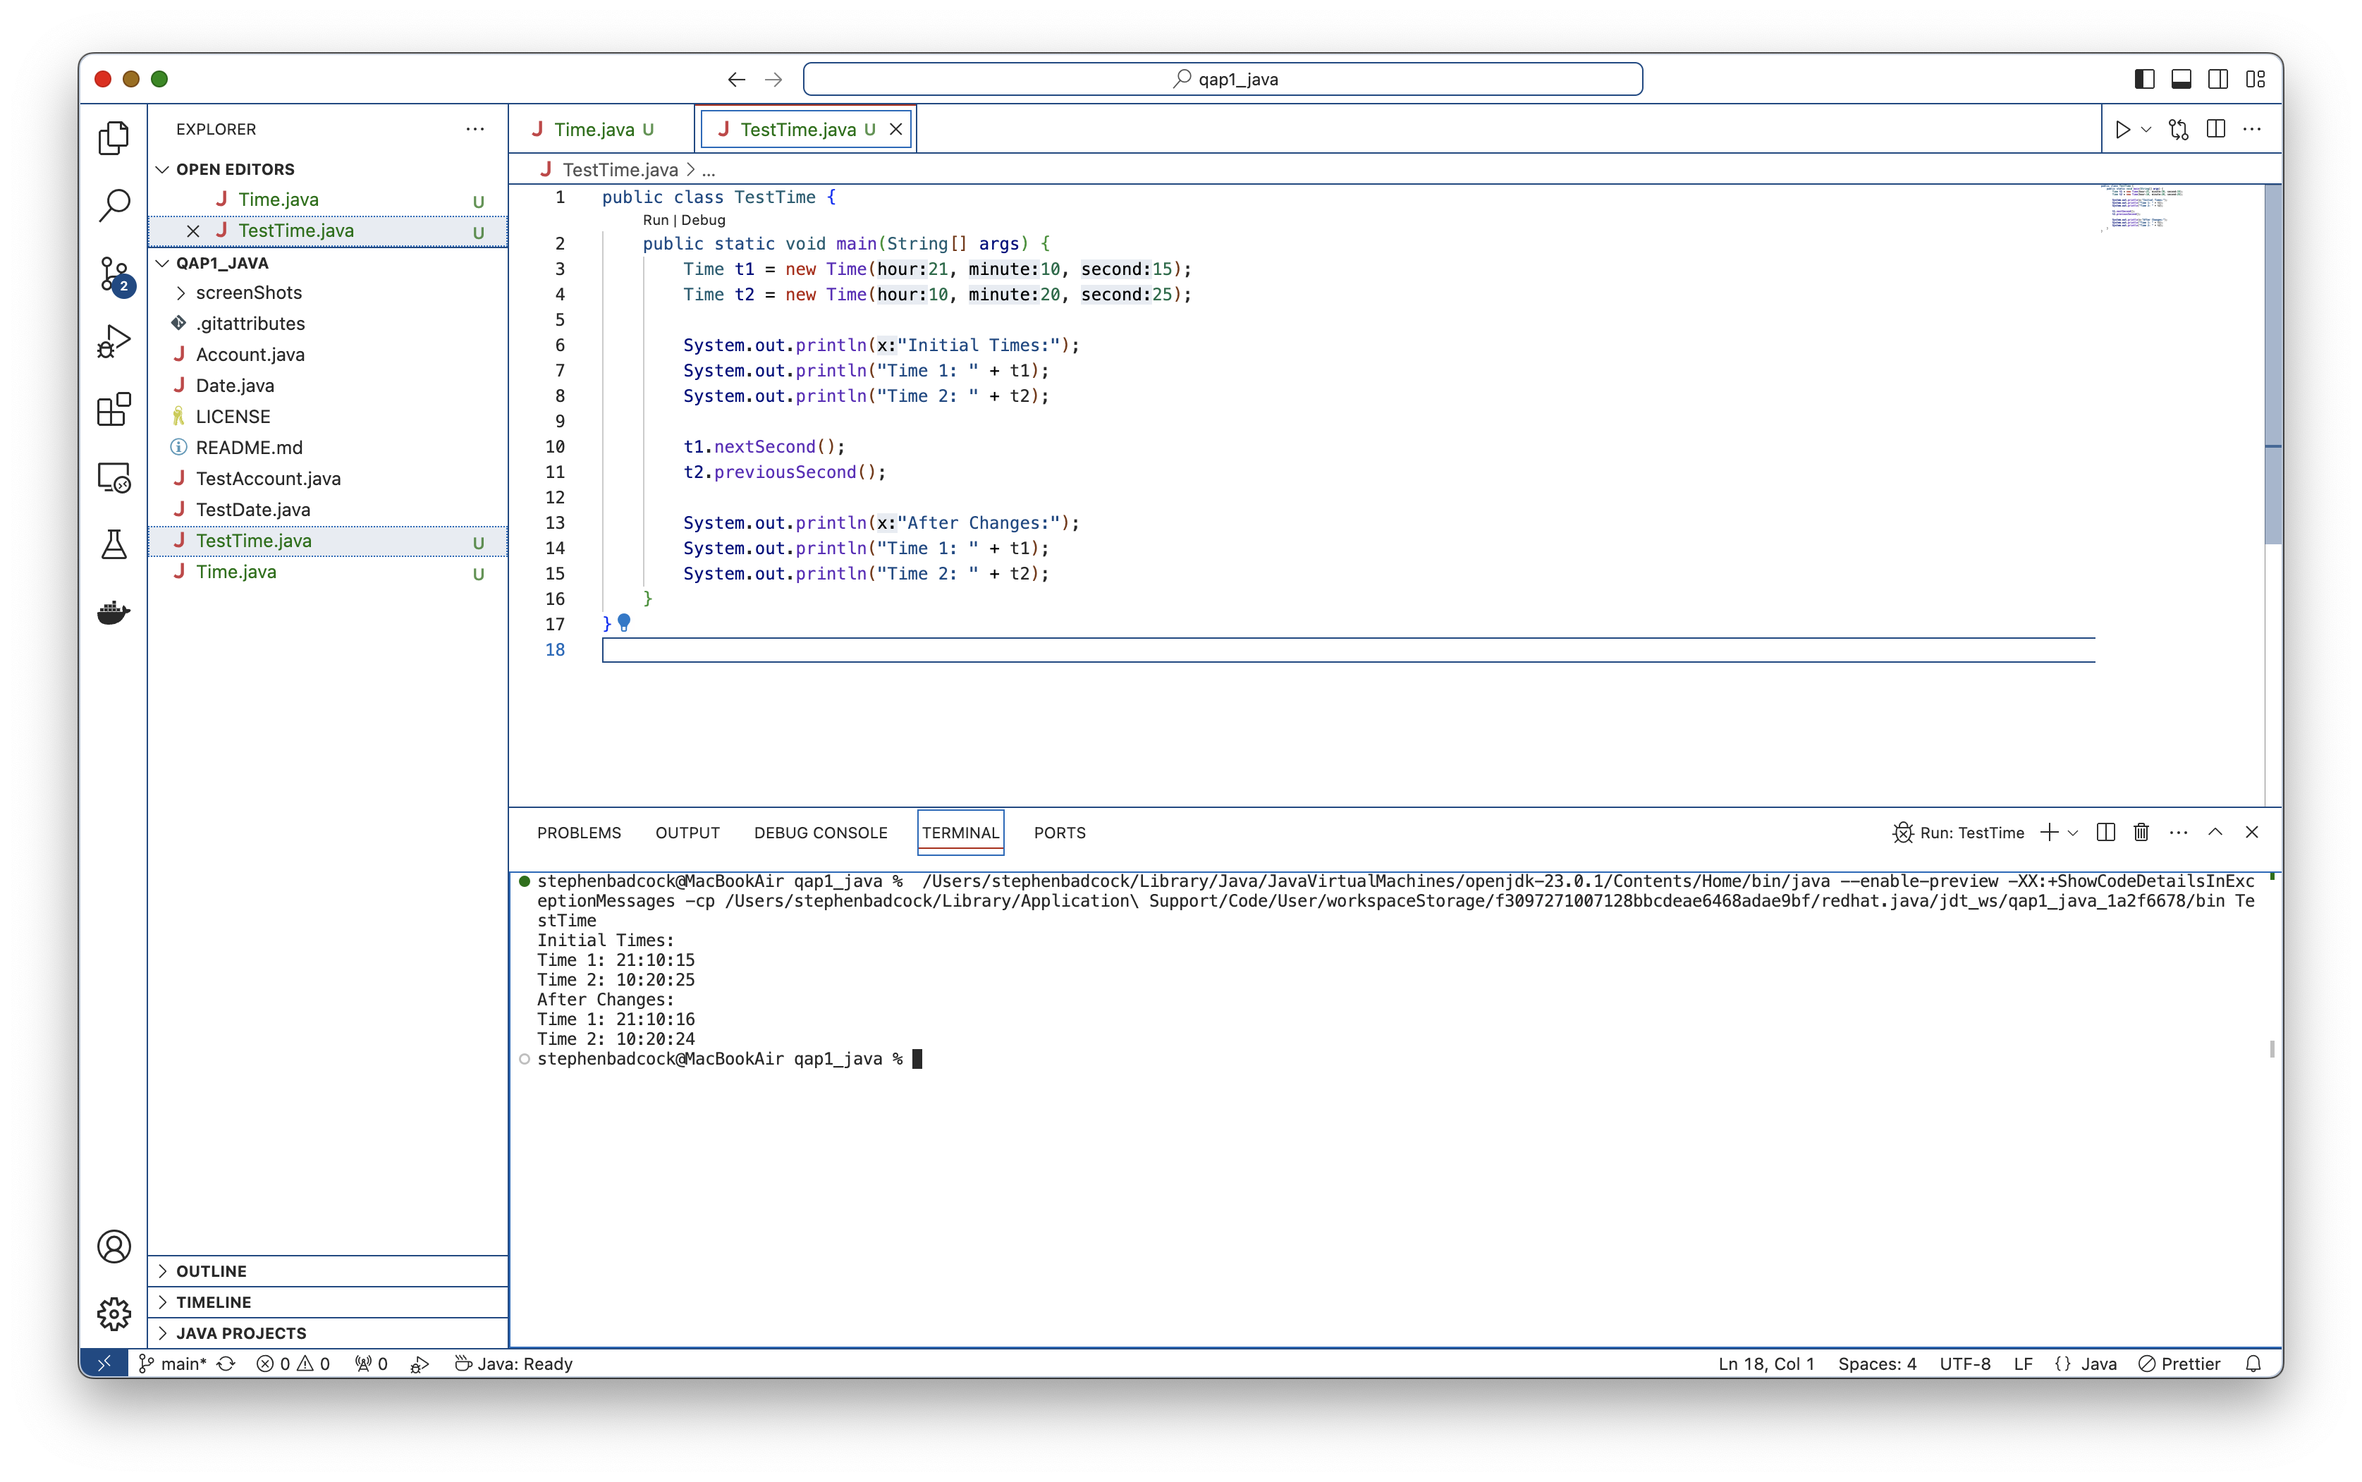
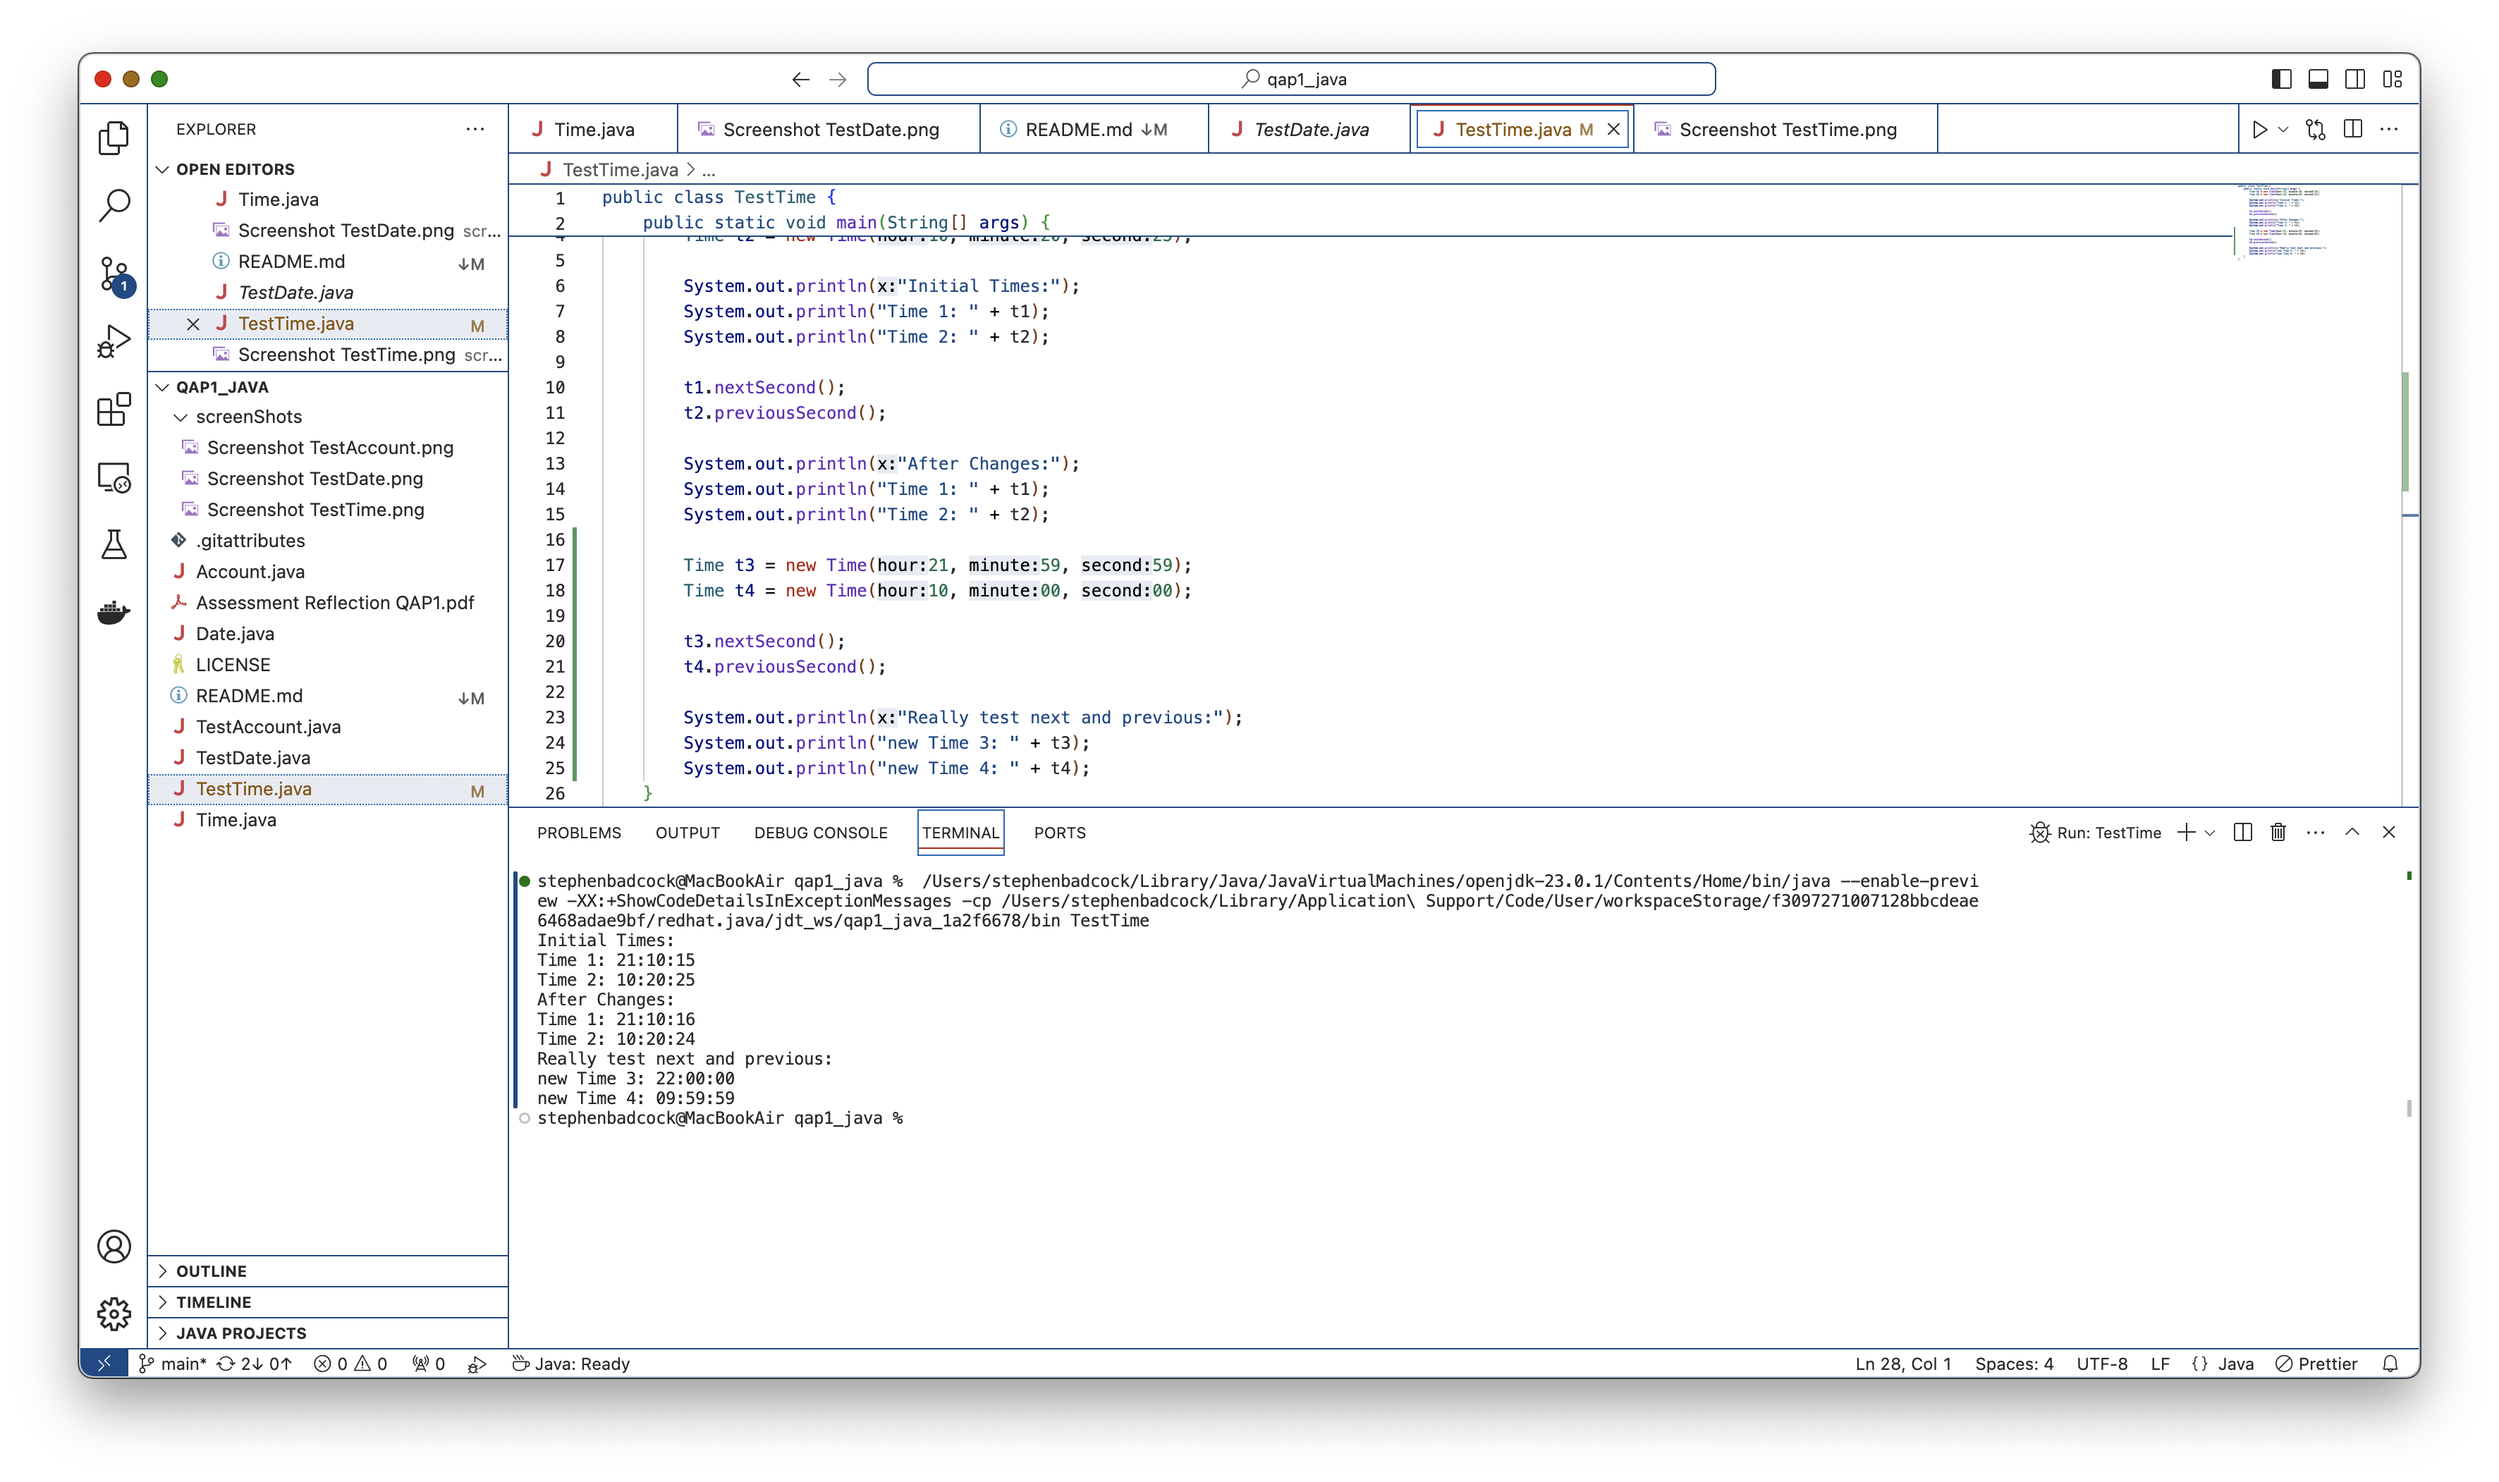
final version qap1
last updates for qap1, finished and uploaded.

diff --git a/TestTime.java b/TestTime.java
@@ -13,5 +13,15 @@ public class TestTime {
         System.out.println("After Changes:");
         System.out.println("Time 1: " + t1);
         System.out.println("Time 2: " + t2);
+
+        Time t3 = new Time(21, 59, 59);
+        Time t4 = new Time(10, 00, 00);
+
+        t3.nextSecond();
+        t4.previousSecond();
+
+        System.out.println("Really test next and previous:");
+        System.out.println("new Time 3: " + t3);
+        System.out.println("new Time 4: " + t4);
     }
 }
